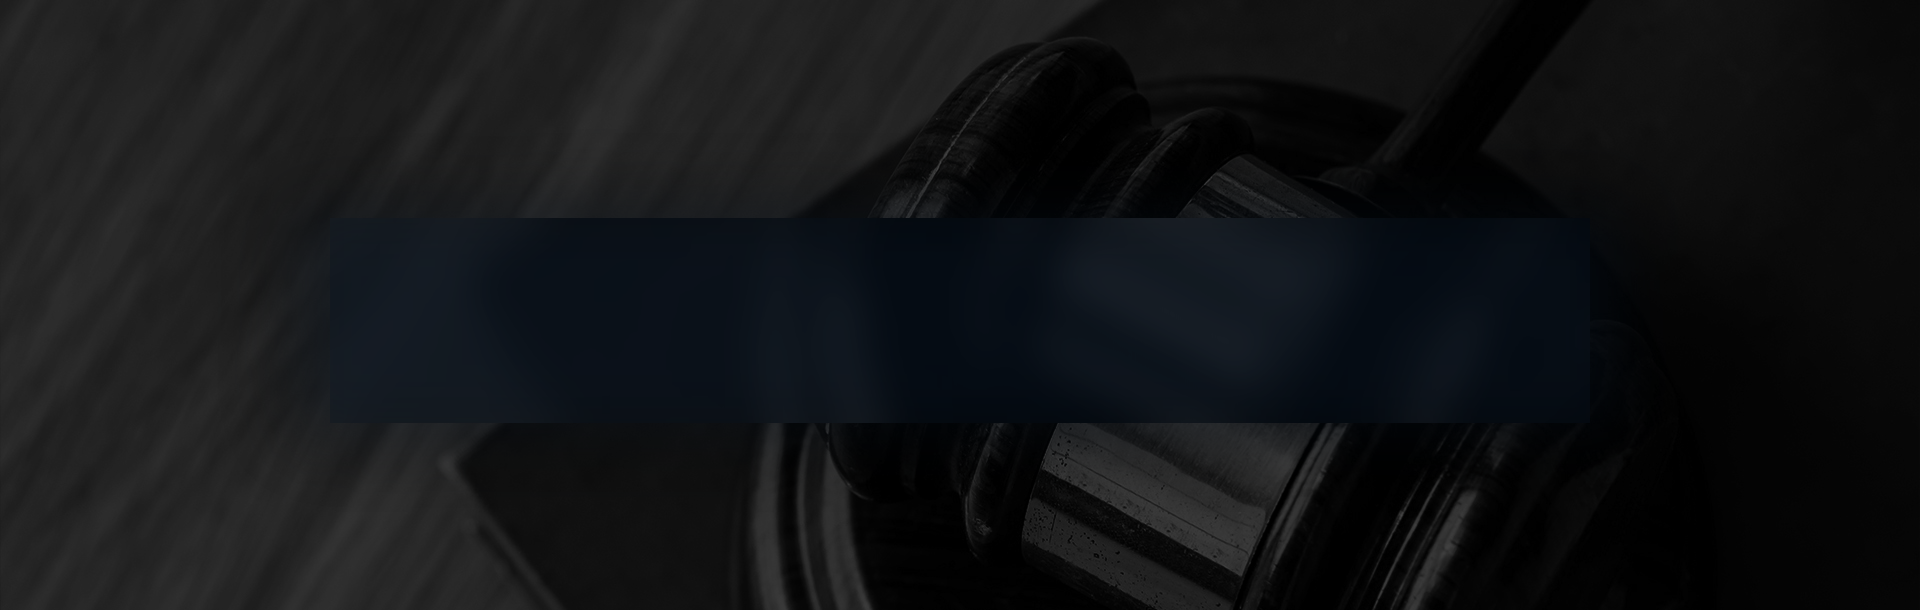
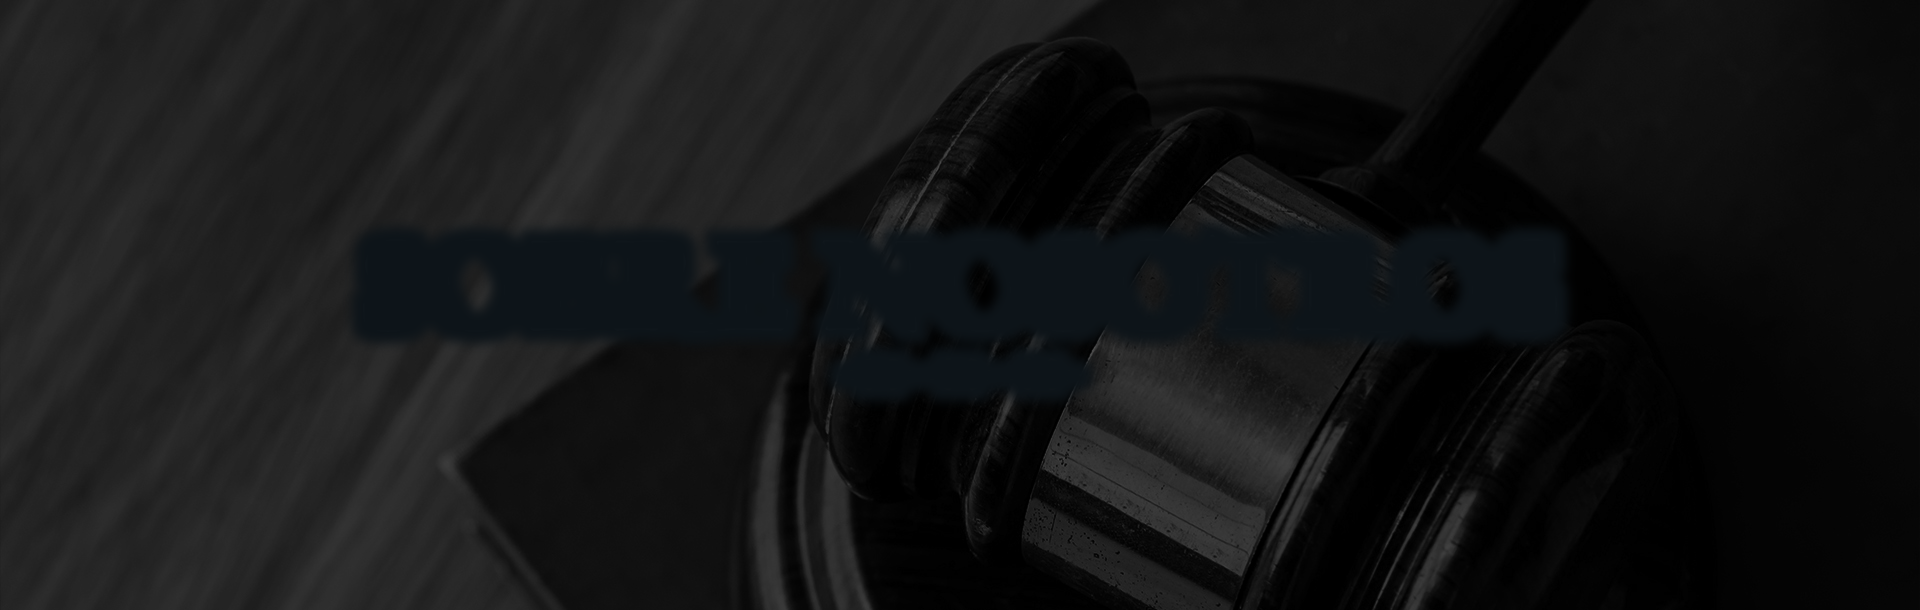
Improve admin tabs and member ordering

diff --git a/src/app/admin/page.tsx b/src/app/admin/page.tsx
@@ -6,9 +6,10 @@ import { getSiteContent } from "@/lib/content";
 import { listContactSubmissions } from "@/lib/contact-submissions";
 import { listMembers } from "@/lib/members";
 import { listNewsPosts } from "@/lib/news";
-import { AdminForm } from "./AdminForm";
 import { AdminContacts } from "./AdminContacts";
+import { AdminForm } from "./AdminForm";
 import { AdminNews } from "./AdminNews";
+import { AdminTabs } from "./AdminTabs";
 import { DeleteMemberButton, MemberEditForm, NewMemberForm } from "./MemberForms";
 import { logoutAction } from "./actions";
 
@@ -28,13 +29,47 @@ export default async function AdminPage() {
   const newsPosts = await listNewsPosts({ includeDrafts: true });
   const supabaseReady = Boolean(process.env.NEXT_PUBLIC_SUPABASE_URL && process.env.SUPABASE_SERVICE_ROLE_KEY);
 
+  const membersPanel = (
+    <section className="admin-members">
+      <div className="section-heading compact">
+        <div>
+          <p className="eyebrow">Equipo legal</p>
+          <h2>Miembros</h2>
+        </div>
+      </div>
+      {!supabaseReady ? (
+        <div className="admin-warning">
+          Supabase todavía no está conectado. El sitio muestra los miembros base, pero el CRUD con fotos se activa cuando se configuren las variables del proyecto Bosich Legal.
+        </div>
+      ) : (
+        <NewMemberForm />
+      )}
+      <div className="member-list">
+        {members.map((member, index) => (
+          <article className="member-admin-card" key={member.id}>
+            {supabaseReady ? (
+              <MemberEditForm member={member} position={index + 1} total={members.length} />
+            ) : (
+              <div className="member-form">
+                <h3>{member.name}</h3>
+                <p className="role">{member.role}</p>
+                <p>{member.focus}</p>
+              </div>
+            )}
+            {!member.id.startsWith("fallback-") ? <DeleteMemberButton memberId={member.id} /> : null}
+          </article>
+        ))}
+      </div>
+    </section>
+  );
+
   return (
     <section className="admin-page">
       <div className="admin-heading">
         <div>
           <p className="eyebrow">Panel privado</p>
           <h1>Administrar Bosich Legal</h1>
-          <p>Edita campos principales y administra los miembros del equipo legal.</p>
+          <p>Edita campos principales, noticias, solicitudes y miembros del equipo legal.</p>
         </div>
         <form action={logoutAction}>
           <button className="logout-button" type="submit">
@@ -43,38 +78,12 @@ export default async function AdminPage() {
           </button>
         </form>
       </div>
-      <section className="admin-members">
-        <div className="section-heading compact">
-          <div>
-            <p className="eyebrow">Equipo legal</p>
-            <h2>Miembros</h2>
-          </div>
-        </div>
-        {!supabaseReady ? (
-          <div className="admin-warning">
-            Supabase todavía no está conectado. El sitio muestra los miembros base, pero el CRUD con fotos se activa cuando se configuren las variables del proyecto Bosich Legal.
-          </div>
-        ) : (
-          <NewMemberForm />
-        )}
-        <div className="member-list">
-          {members.map((member) => (
-            <article className="member-admin-card" key={member.id}>
-              {supabaseReady ? <MemberEditForm member={member} /> : (
-                <div className="member-form">
-                  <h3>{member.name}</h3>
-                  <p className="role">{member.role}</p>
-                  <p>{member.focus}</p>
-                </div>
-              )}
-              {!member.id.startsWith("fallback-") ? <DeleteMemberButton memberId={member.id} /> : null}
-            </article>
-          ))}
-        </div>
-      </section>
-      <AdminNews posts={newsPosts} supabaseReady={supabaseReady} />
-      <AdminContacts submissions={contactSubmissions} />
-      <AdminForm content={content} />
+      <AdminTabs
+        members={membersPanel}
+        news={<AdminNews posts={newsPosts} supabaseReady={supabaseReady} />}
+        contacts={<AdminContacts submissions={contactSubmissions} />}
+        content={<AdminForm content={content} />}
+      />
     </section>
   );
 }

diff --git a/src/app/admin/MemberForms.tsx b/src/app/admin/MemberForms.tsx
@@ -1,9 +1,9 @@
 "use client";
 
 import { useActionState } from "react";
-import { Trash2, Upload } from "lucide-react";
+import { ArrowDown, ArrowUp, GripVertical, Trash2, Upload } from "lucide-react";
 import type { TeamMember } from "@/types/member";
-import { createMemberAction, deleteMemberAction, updateMemberAction } from "./member-actions";
+import { createMemberAction, deleteMemberAction, moveMemberAction, updateMemberAction } from "./member-actions";
 
 function StatusMessage({ state }: { state: { ok: boolean; message: string } | null }) {
   return state?.message ? <p className={state.ok ? "admin-success" : "admin-error"}>{state.message}</p> : null;
@@ -27,10 +27,6 @@ export function NewMemberForm() {
         Especialidad
         <textarea name="focus" rows={3} required />
       </label>
-      <label>
-        Orden
-        <input name="sort_order" type="number" defaultValue={100} min={1} />
-      </label>
       <label className="checkbox-label">
         <input name="is_active" type="checkbox" defaultChecked />
         Visible en el sitio
@@ -48,12 +44,33 @@ export function NewMemberForm() {
   );
 }
 
-export function MemberEditForm({ member }: { member: TeamMember }) {
+export function MemberOrderControls({ position, total }: { position: number; total: number }) {
+  return (
+    <div className="member-order-controls" aria-label="Orden del miembro">
+      <span className="member-position">
+        <GripVertical size={16} />
+        {position} de {total}
+      </span>
+      <button formAction={moveMemberAction} name="direction" value="up" type="submit" disabled={position <= 1} title="Subir miembro">
+        <ArrowUp size={16} />
+        Subir
+      </button>
+      <button formAction={moveMemberAction} name="direction" value="down" type="submit" disabled={position >= total} title="Bajar miembro">
+        <ArrowDown size={16} />
+        Bajar
+      </button>
+    </div>
+  );
+}
+
+export function MemberEditForm({ member, position, total }: { member: TeamMember; position: number; total: number }) {
   const [state, action, pending] = useActionState(updateMemberAction, null);
 
   return (
     <form className="member-form" action={action}>
       <input name="id" type="hidden" value={member.id} />
+      <input name="sort_order" type="hidden" value={member.sort_order} />
+      <MemberOrderControls position={position} total={total} />
       <div className="member-photo">
         {member.photo_url ? <img src={member.photo_url} alt={member.name} /> : <span>Sin foto</span>}
       </div>
@@ -68,10 +85,6 @@ export function MemberEditForm({ member }: { member: TeamMember }) {
       <label>
         Especialidad
         <textarea name="focus" defaultValue={member.focus} rows={3} required />
-      </label>
-      <label>
-        Orden
-        <input name="sort_order" type="number" defaultValue={member.sort_order} min={1} />
       </label>
       <label className="checkbox-label">
         <input name="is_active" type="checkbox" defaultChecked={member.is_active} />

diff --git a/src/app/globals.css b/src/app/globals.css
@@ -691,6 +691,53 @@ p {
   font-weight: 700;
 }
 
+.admin-tabs {
+  display: grid;
+  gap: 22px;
+}
+
+.admin-tab-list {
+  display: flex;
+  gap: 8px;
+  align-items: center;
+  overflow-x: auto;
+  padding: 8px;
+  border: 1px solid var(--line);
+  background: #fff;
+  box-shadow: 0 10px 30px rgba(8, 21, 34, 0.05);
+}
+
+.admin-tab {
+  display: inline-flex;
+  min-height: 42px;
+  align-items: center;
+  justify-content: center;
+  gap: 8px;
+  white-space: nowrap;
+  border: 1px solid transparent;
+  padding: 9px 14px;
+  background: transparent;
+  color: #30343a;
+  font: inherit;
+  font-weight: 800;
+  cursor: pointer;
+}
+
+.admin-tab:hover {
+  border-color: #e2d6c5;
+  background: #fbfaf7;
+}
+
+.admin-tab.active {
+  border-color: var(--gold);
+  background: var(--navy);
+  color: #fff;
+}
+
+.admin-tab-panel {
+  display: grid;
+}
+
 .login-page {
   display: grid;
   grid-template-columns: 1fr minmax(280px, 420px);
@@ -967,6 +1014,43 @@ p {
   width: 100%;
   height: 220px;
   object-fit: cover;
+}
+
+.member-order-controls {
+  display: flex;
+  flex-wrap: wrap;
+  gap: 8px;
+  align-items: center;
+  justify-content: space-between;
+  padding: 10px;
+  border: 1px solid #e6ddcf;
+  background: #f8f5ef;
+}
+
+.member-position {
+  display: inline-flex;
+  align-items: center;
+  gap: 6px;
+  color: var(--navy);
+  font-weight: 800;
+}
+
+.member-order-controls button {
+  display: inline-flex;
+  min-height: 34px;
+  align-items: center;
+  gap: 6px;
+  border: 1px solid #d8d1c5;
+  background: #fff;
+  color: var(--ink);
+  font: inherit;
+  font-weight: 800;
+  cursor: pointer;
+}
+
+.member-order-controls button:disabled {
+  cursor: not-allowed;
+  opacity: 0.45;
 }
 
 .checkbox-label {

diff --git a/src/app/admin/AdminTabs.tsx b/src/app/admin/AdminTabs.tsx
@@ -1,0 +1,54 @@
+"use client";
+
+import { useState, type ReactNode } from "react";
+import { FileText, Inbox, UsersRound, Settings } from "lucide-react";
+
+type TabId = "members" | "news" | "contacts" | "content";
+
+type AdminTabsProps = {
+  members: ReactNode;
+  news: ReactNode;
+  contacts: ReactNode;
+  content: ReactNode;
+};
+
+const tabs: Array<{ id: TabId; label: string; icon: ReactNode }> = [
+  { id: "members", label: "Miembros", icon: <UsersRound size={17} /> },
+  { id: "news", label: "Blog jurídico", icon: <FileText size={17} /> },
+  { id: "contacts", label: "Solicitudes de contacto", icon: <Inbox size={17} /> },
+  { id: "content", label: "Contenido del sitio", icon: <Settings size={17} /> },
+];
+
+export function AdminTabs({ members, news, contacts, content }: AdminTabsProps) {
+  const [active, setActive] = useState<TabId>("members");
+
+  const panels: Record<TabId, ReactNode> = {
+    members,
+    news,
+    contacts,
+    content,
+  };
+
+  return (
+    <div className="admin-tabs">
+      <div className="admin-tab-list" role="tablist" aria-label="Secciones del panel">
+        {tabs.map((tab) => (
+          <button
+            key={tab.id}
+            type="button"
+            role="tab"
+            aria-selected={active === tab.id}
+            className={active === tab.id ? "admin-tab active" : "admin-tab"}
+            onClick={() => setActive(tab.id)}
+          >
+            {tab.icon}
+            <span>{tab.label}</span>
+          </button>
+        ))}
+      </div>
+      <div className="admin-tab-panel" role="tabpanel">
+        {panels[active]}
+      </div>
+    </div>
+  );
+}

diff --git a/src/app/admin/member-actions.ts b/src/app/admin/member-actions.ts
@@ -2,7 +2,7 @@
 
 import { revalidatePath } from "next/cache";
 import { requireAdmin } from "@/lib/auth";
-import { createMember, deleteMember, updateMember, uploadMemberPhoto } from "@/lib/members";
+import { createMember, deleteMember, listMembers, updateMember, uploadMemberPhoto } from "@/lib/members";
 
 function revalidateMemberViews() {
   ["/", "/sobre-nosotros", "/admin"].forEach((path) => revalidatePath(path));
@@ -50,5 +50,34 @@ export async function updateMemberAction(_: unknown, formData: FormData) {
 export async function deleteMemberAction(formData: FormData) {
   await requireAdmin();
   await deleteMember(String(formData.get("id") || ""));
+  revalidateMemberViews();
+}
+
+export async function moveMemberAction(formData: FormData) {
+  await requireAdmin();
+
+  const id = String(formData.get("id") || "");
+  const direction = String(formData.get("direction") || "");
+  const members = await listMembers(undefined, true);
+  const currentIndex = members.findIndex((member) => member.id === id);
+  const targetIndex = direction === "up" ? currentIndex - 1 : currentIndex + 1;
+
+  if (currentIndex < 0 || targetIndex < 0 || targetIndex >= members.length) {
+    revalidateMemberViews();
+    return;
+  }
+
+  const reordered = [...members];
+  const [current] = reordered.splice(currentIndex, 1);
+  reordered.splice(targetIndex, 0, current);
+
+  await Promise.all(
+    reordered.map((member, index) =>
+      updateMember(member.id, {
+        sort_order: index + 1,
+      })
+    )
+  );
+
   revalidateMemberViews();
 }
